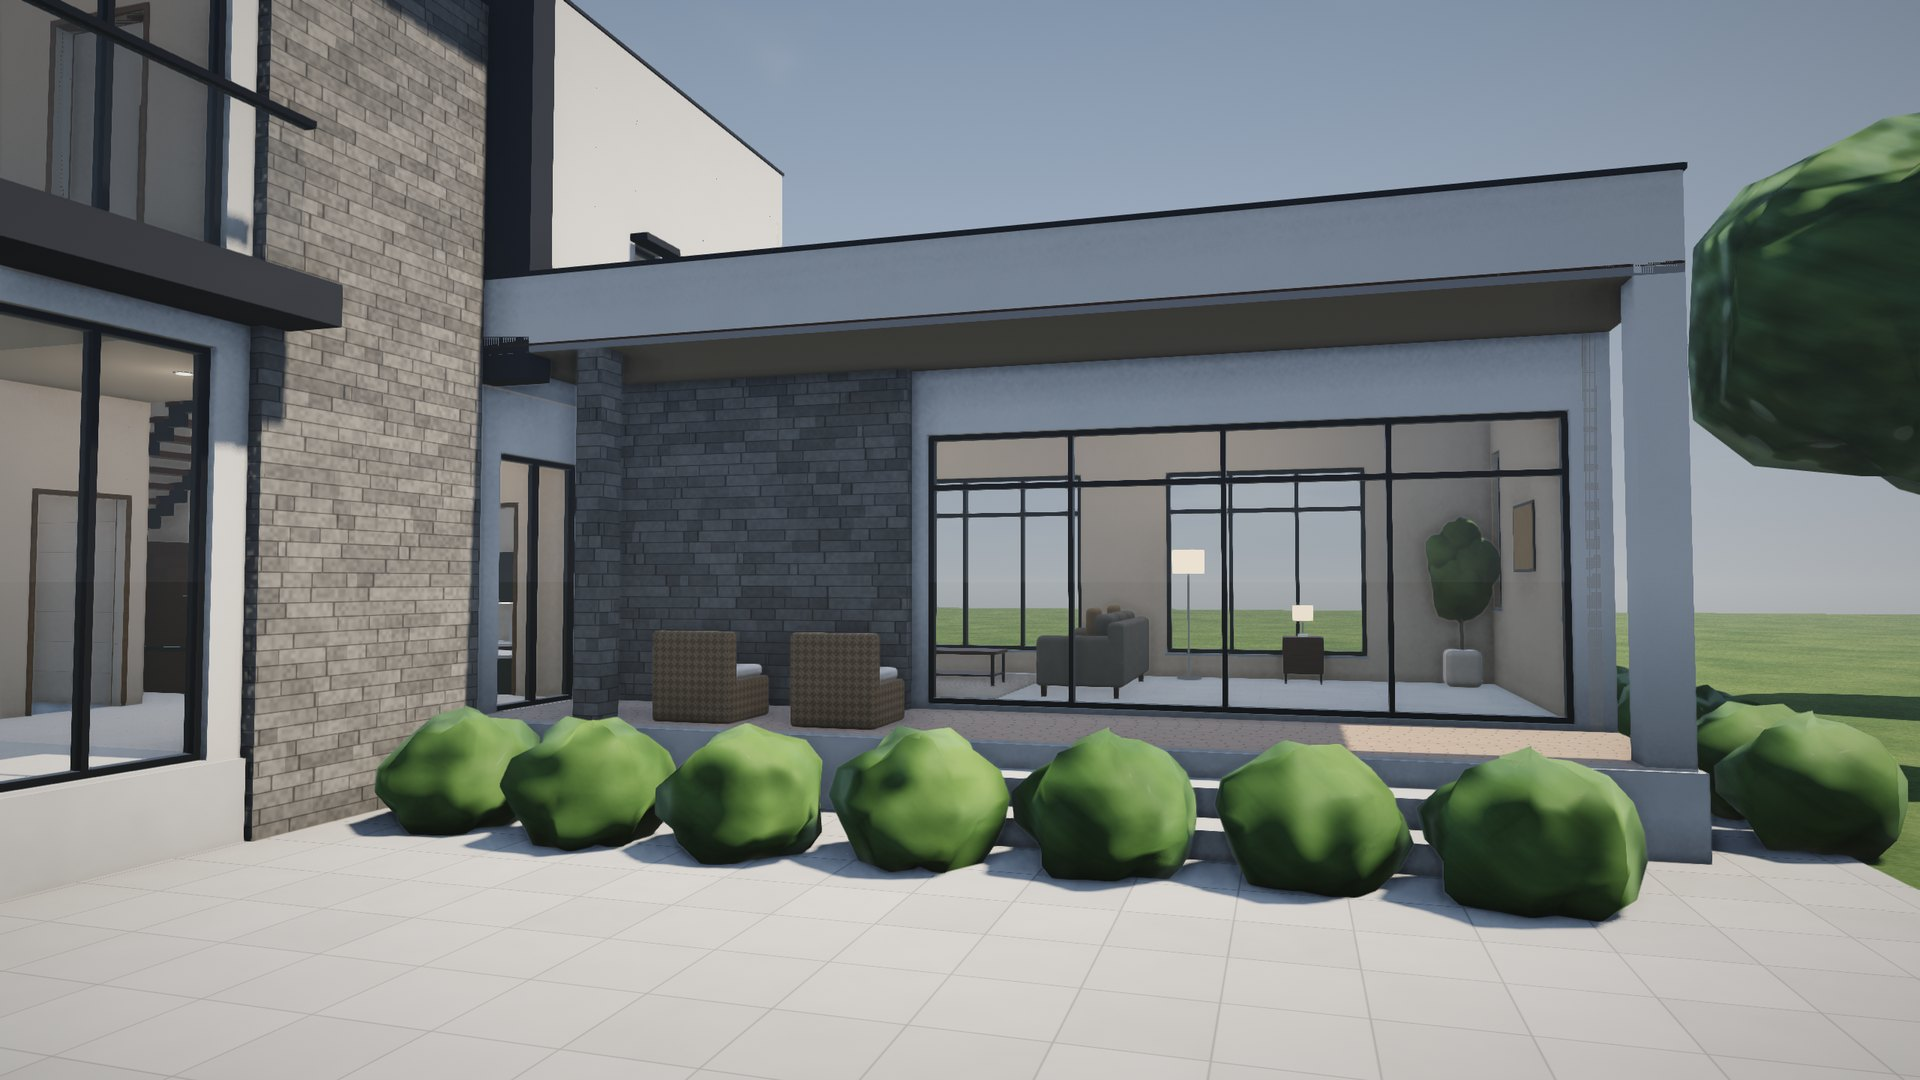
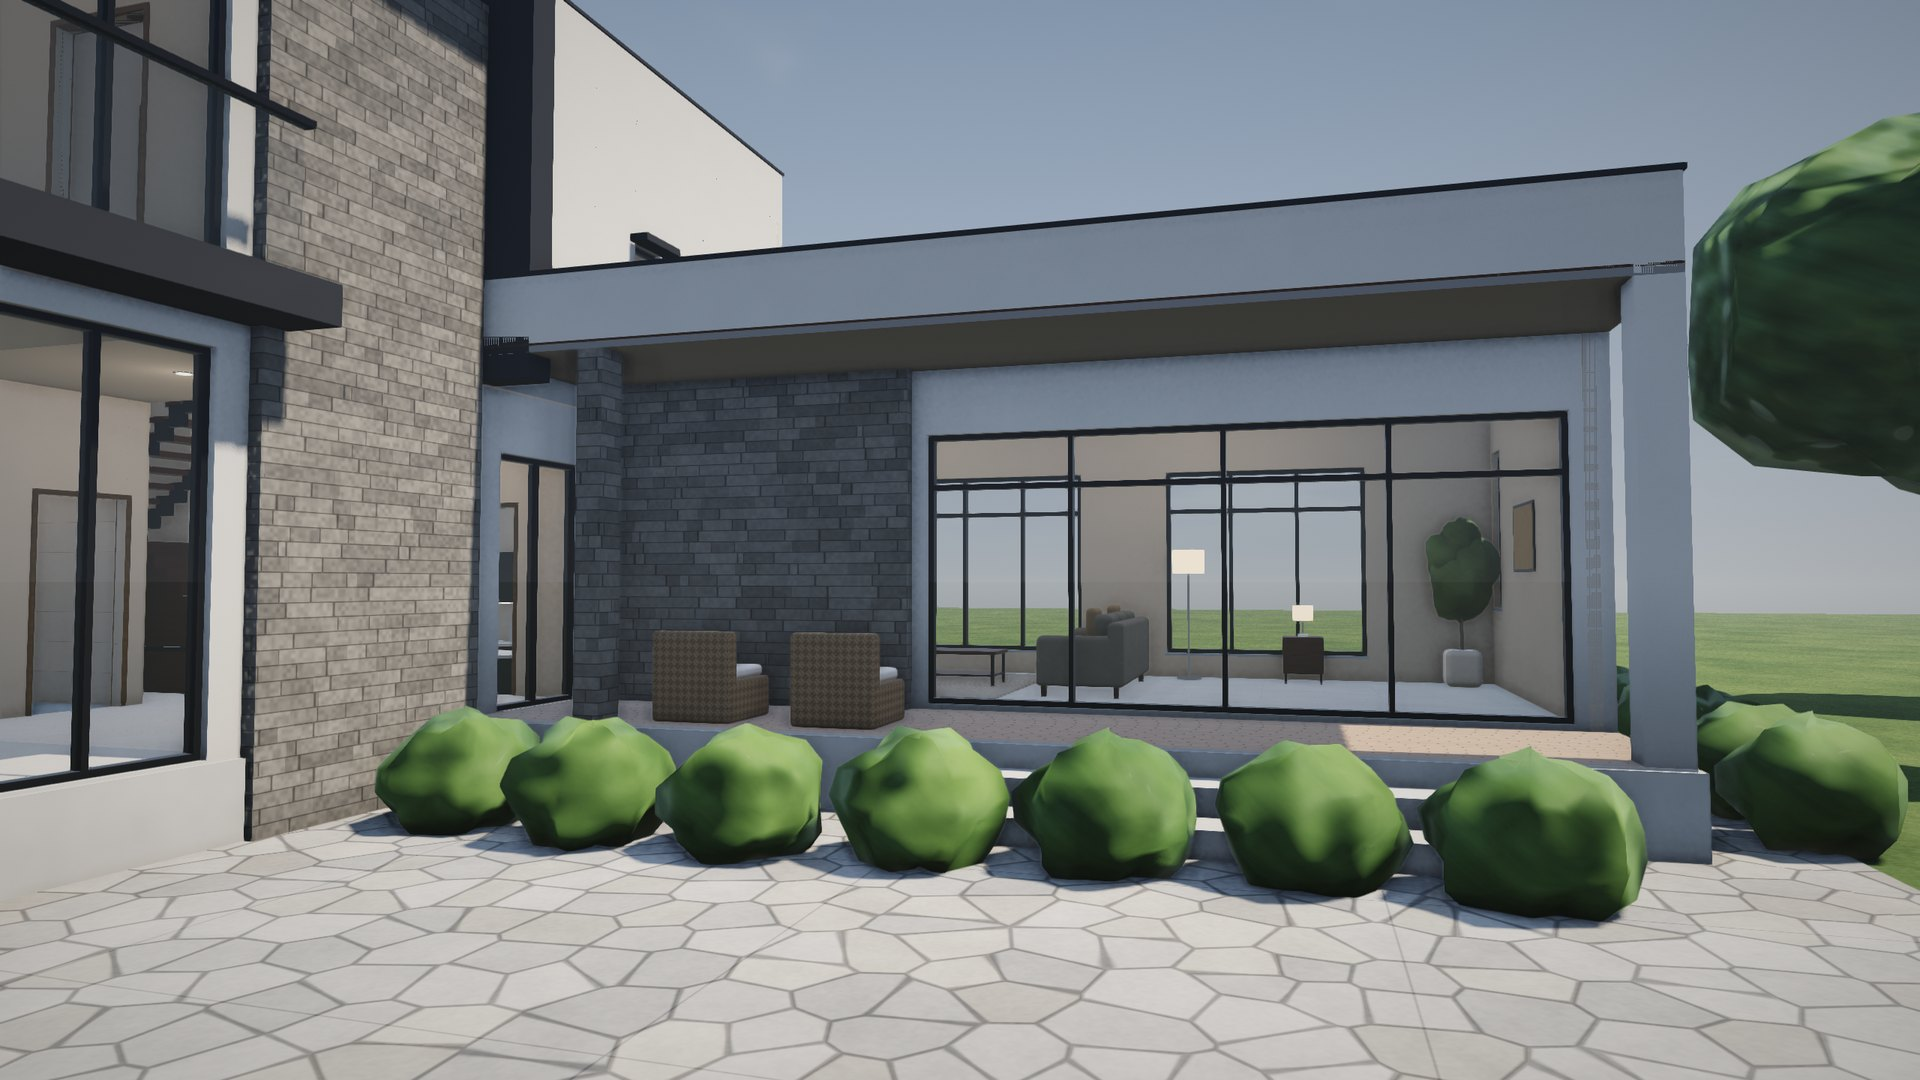
ลานหน้าบ้านเป็นคอนกรีตพิมพ์ลายหินแผ่น + ภาพเรนเดอร์ใหม่
Claude-Session: https://claude.ai/code/session_013i3ffvjiePNLqy5JQb5Coc

Changed region(s): [[0.0, 0.7639, 1.0, 1.0], [0.3438, 0.9167, 0.375, 0.9472]]

diff --git a/index.html b/index.html
@@ -169,6 +169,7 @@ footer .wrap{display:flex;flex-wrap:wrap;gap:8px 28px;justify-content:space-betw
       <tr><th>ห้องนอน</th><td>ห้องนอน 1 SPC ลายวอลนัท · ห้องนอน 2–3 ลามิเนตลายโอ๊ค 8 มม.</td></tr>
       <tr><th>ห้องน้ำ</th><td>กระเบื้องเซรามิก พื้น 30×30 ผนัง 30×60</td></tr>
       <tr><th>เฉลียง</th><td>พื้นไม้ ฝ้าระแนงไม้ ประตูกระจกบานเลื่อน 4 บาน</td></tr>
+      <tr><th>ลานหน้าบ้าน</th><td>คอนกรีตพิมพ์ลายหินแผ่นแบบสุ่ม โทนเทา เคลือบกันลื่น มีรอยตัดควบคุมการแตกร้าวทุก 3 ม.</td></tr>
     </tbody></table><p class="note">เปลี่ยนพื้น ผนัง สีเฟอร์นิเจอร์ และผิวไม้ได้ทีละห้องในโมเดล 3D</p></div>
   </div>
 </div></section>
@@ -207,7 +208,7 @@ footer .wrap{display:flex;flex-wrap:wrap;gap:8px 28px;justify-content:space-betw
 <script>
 {
 const IMGS=[['01_exterior_day','ภายนอก ยามบ่าย'],['02_living','ห้องรับแขก'],['03_kitchen','ครัว'],['04_dining','ห้องทานอาหาร เพดานสูง 2 ชั้น'],['05_master_bedroom','ห้องนอน 1'],['06_exterior_night','ภายนอก ยามค่ำ'],
-  ['07_living_facade','ด้านหน้าห้องรับแขก'],['08_aerial','มุมสูง'],['11_stair_hall','โถงและบันได']];
+  ['07_living_facade','ด้านหน้าห้องรับแขก'],['08_aerial','มุมสูง'],['12_stamped_courtyard','ลานคอนกรีตพิมพ์ลายหน้าบ้าน'],['11_stair_hall','โถงและบันได']];
 const ROOMS=[
   {n:1,id:'ห้องรับแขก',lv:1,f:'+0.60',a:42.75,x:59.96,y:21.94},{n:2,id:'ครัว',lv:1,f:'±0.00',a:24.75,x:37.16,y:22.35},{n:3,id:'โถง / บันได',lv:1,f:'+0.60',a:20.28,x:41.5,y:47},
   {n:4,id:'ห้องน้ำ 3',lv:1,f:'+0.50',a:5.72,x:29.52,y:51},{n:5,id:'ห้องทานอาหาร',lv:1,f:'+0.60',a:40.95,x:35.44,y:65.52},{n:6,id:'เฉลียง',lv:1,f:'+0.60',a:17.1,x:59.96,y:39.1,out:1},

diff --git a/studio.html b/studio.html
@@ -479,7 +479,7 @@ void main(){
   else if(vM==4){alb=uAcc*.5+.01;rough=.35;metal=.5;}
   else if(vM==5){alb=vec3(.70,.69,.66)*(.85+.2*fbm(uvf*4.));rough=.9;}
   else if(vM==6){float g=fbm(p.xz*.7);float g2=fbm(p.xz*11.);float g3=vn(p.xz*45.);alb=mix(vec3(.07,.13,.035),vec3(.19,.26,.07),g)*(.7+.35*g2)*(.85+.3*g3);ao*=mix(.5,1.,smoothstep(0.,2.2,foot(p.xz)));rough=.95;}
-  else if(vM==7){alb=vec3(.62,.6,.56)*(.9+.15*h21(floor(p.xz/.6)))*(.9+.12*fbm(p.xz*5.));alb*=mix(.55,1.,grid(p.xz,vec2(.6),.01));ao*=mix(.45,1.,smoothstep(0.,1.8,foot(p.xz)));rough=.85;}
+  else if(vM==7){vec2 q=p.xz/.42;vec2 ip=floor(q),fp=fract(q);float d1=8.,d2=8.;vec2 cid=ip;for(int j=-1;j<=1;j++)for(int i=-1;i<=1;i++){vec2 g=vec2(float(i),float(j));vec2 o=vec2(h21(ip+g),h21(ip+g+17.3));vec2 r=g+.1+o*.8-fp;float d=dot(r,r);if(d<d1){d2=d1;d1=d;cid=ip+g;}else if(d<d2)d2=d;}float e=sqrt(d2)-sqrt(d1);float gr=smoothstep(.02,.1,e);float hv=h21(cid*1.7);alb=mix(vec3(.40,.39,.37),vec3(.64,.62,.58),hv)*mix(vec3(1.),vec3(1.04,1.,.93),step(.7,h21(cid*3.1)))*(.82+.3*fbm(p.xz*4.))*(.93+.12*vn(p.xz*45.));alb*=mix(.38,1.,gr);{vec2 cj=abs(fract((p.xz-vec2(6.5,6.3))/3.)-.5)*3.;alb*=mix(.55,1.,smoothstep(.0,.012,min(cj.x,cj.y)));}n=normalize(n+vec3(0.,0.,0.)+(vec3(vn(p.xz*25.),0.,vn(p.xz*25.+5.))-.5)*.15);rough=.72;ao*=mix(.45,1.,smoothstep(0.,1.8,foot(p.xz)));}
   else if(vM==8){float b=fract(p.z/.15);alb=vec3(.40,.26,.16)*(.8+.3*fbm(vec2(p.x*1.5,p.z*40.)))*mix(.45,1.,smoothstep(0.,.06,b));rough=.6;}
   else if(vM==9){alb=uAcc*(.96+.05*fbm(uvf*3.));rough=.8;}
   else if(vM==10){float f=fbm(p.xz*2.5+p.y*3.);alb=mix(vec3(.06,.14,.035),vec3(.20,.33,.08),f);n=normalize(n+(vec3(vn(p.xy*5.),vn(p.yz*5.),vn(p.zx*5.))-.5)*1.1);ao*=.45+.55*f;rough=.7;sheen=.3;}
